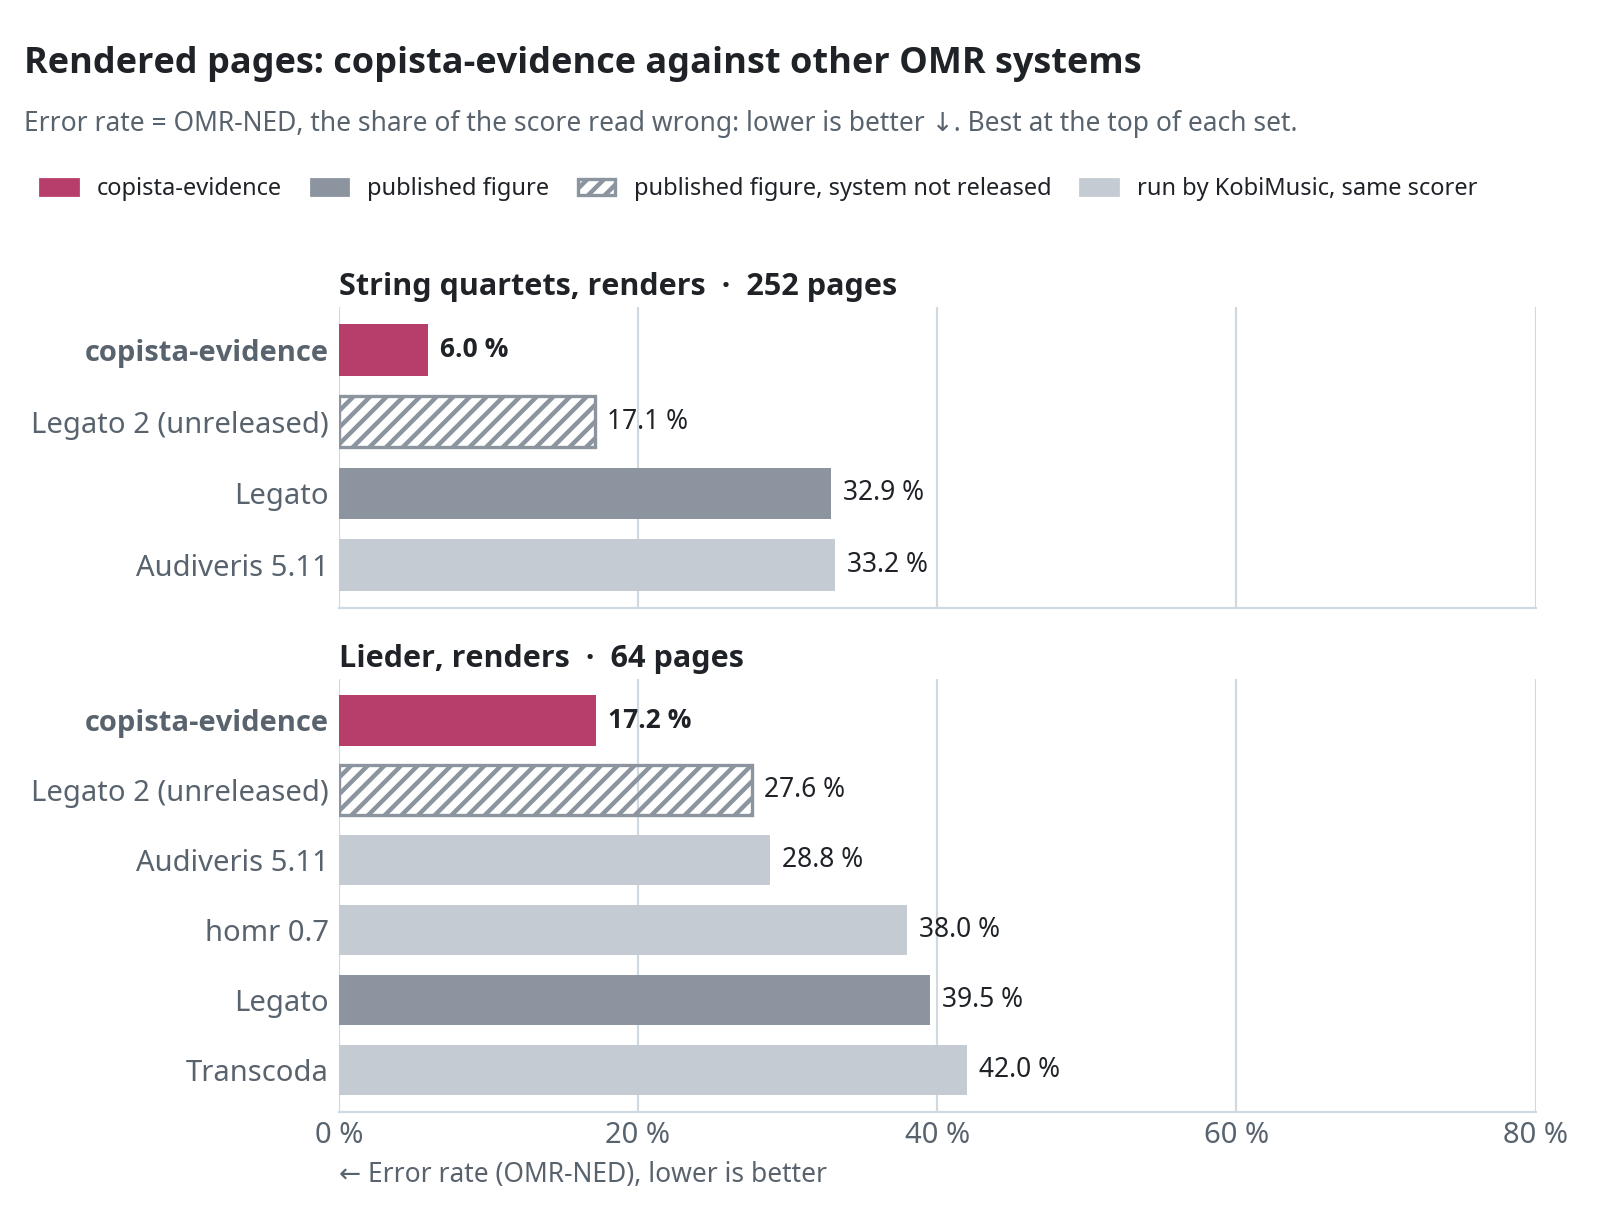
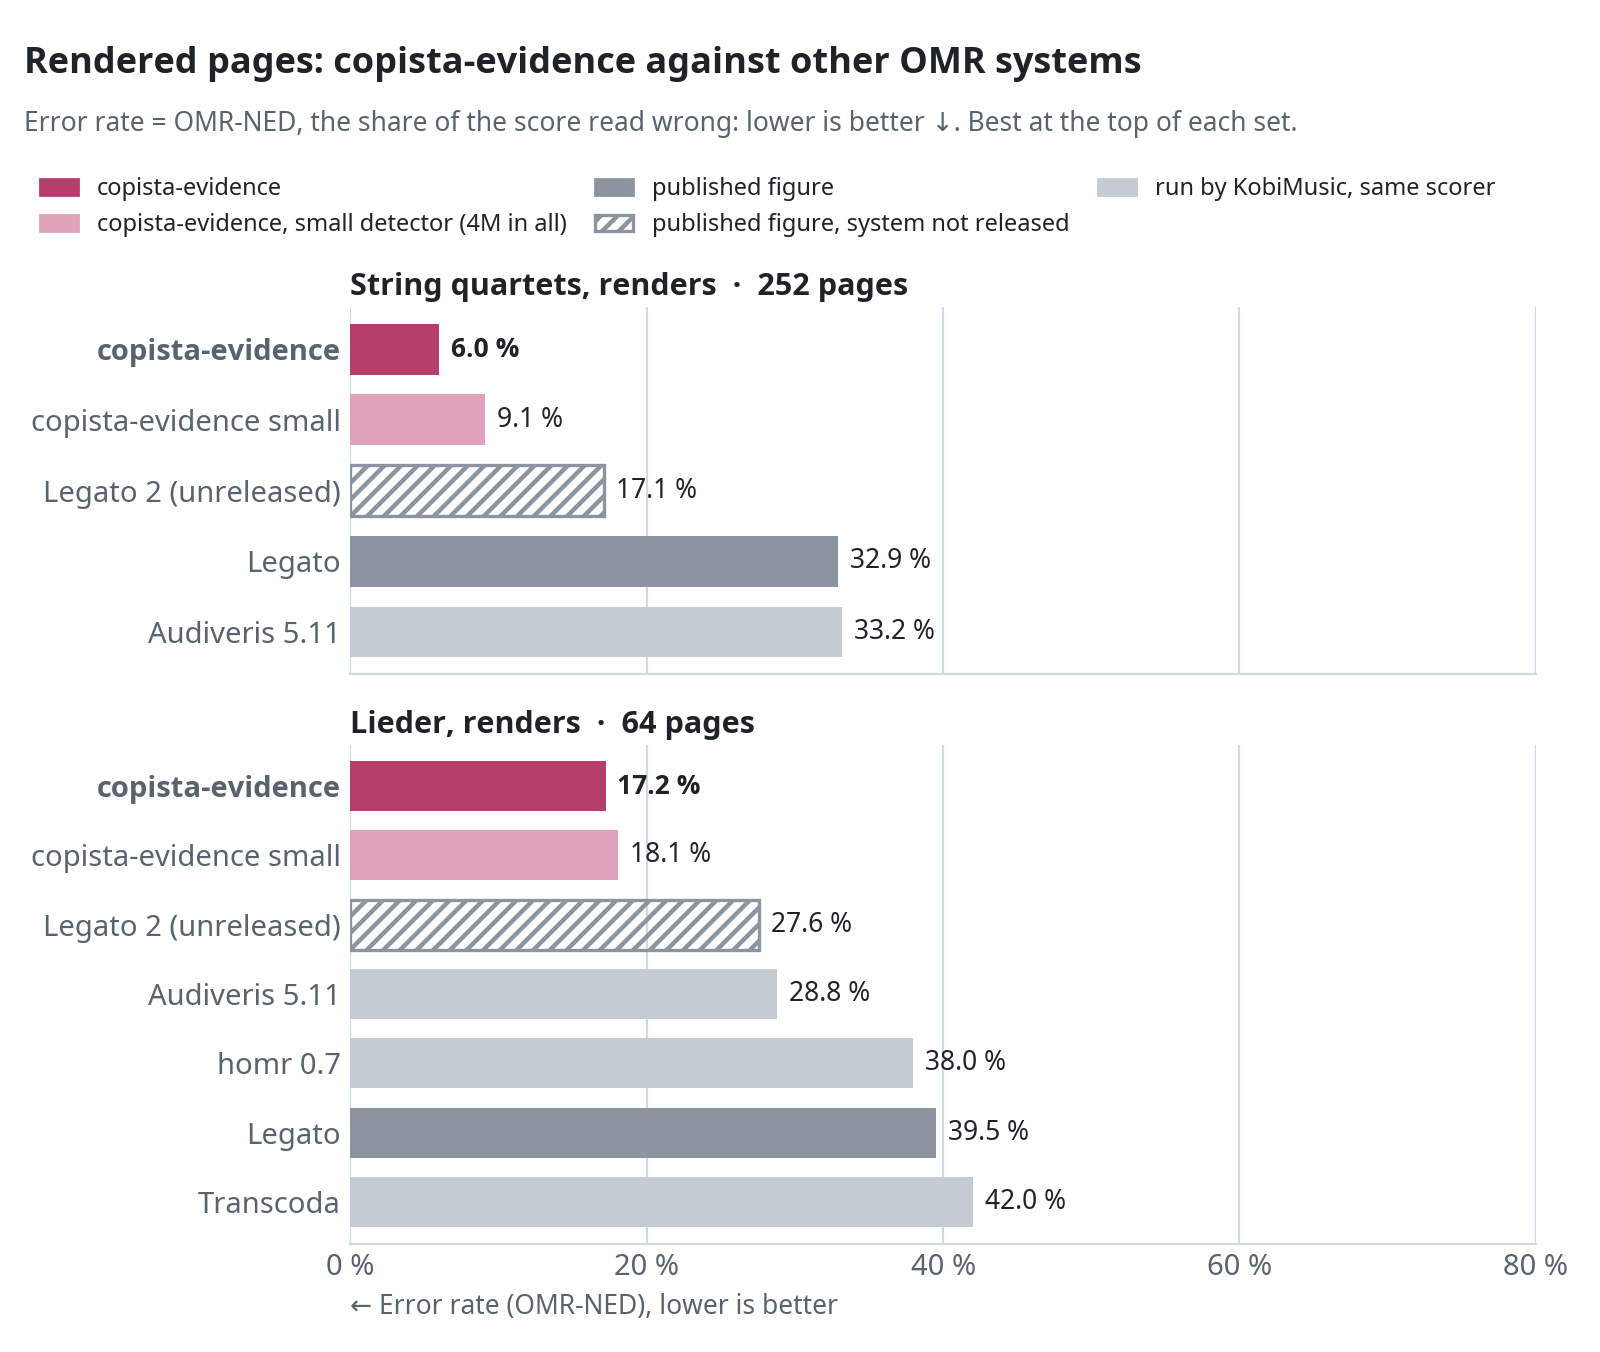
Small detector: --detector small (1.94M parameters) and its benchmark row
COPISTA_DETECTOR / --detector picks the symbol detector (v7, the default, or small); each detector's detections are
cached under their own tag. The README, the charts and docs/ARCHITECTURE.md add copista-evidence with the small
detector (about 4M parameters in all): 11.5 / 9.1 / 29.2 / 18.1 / 38.8 % error on the five sets.

Claude-Session: https://claude.ai/code/session_01X55R1JPz4nFe7sDjs2RiEf

diff --git a/src/copista_evidence/pipeline.py b/src/copista_evidence/pipeline.py
@@ -3,8 +3,9 @@
   python -m copista_evidence.pipeline page.png [more pages ...] --out out
   python -m copista_evidence.pipeline --pdf score.pdf --range 1-4 --out out
 
-A page's detections are taken from a cached file (``<stem>.dets_v7_<imgsz>.json`` beside the page) when one
-exists, else v7 runs here at the size the page's staff space asks for, and is cached the same way. Page texts
+A page's detections are taken from a cached file (``<stem>.dets_<tag>_<imgsz>.json`` beside the page, tag v7 for the
+default detector) when one exists, else the detector runs here at the size the page's staff space asks for, and is
+cached the same way. ``--detector small`` (or COPISTA_DETECTOR=small) reads with the 1.94M-parameter detector. Page texts
 (``<stem>.texts.json`` beside the page: OCR text boxes, see docs/ARCHITECTURE.md) are used when present: the
 title, the composer, words and multi-measure rest counts.
 """
@@ -17,12 +18,13 @@ from pathlib import Path
 
 from . import read, view, write
 
-from .paths import EVIDENCE, REPO as ROOT
+from .paths import DETECTORS, EVIDENCE, REPO as ROOT, detector
 
 
 def detections(png: Path, want_size: bool = False):
     """The page's v7 detections (``want_size``: and the input size they were read at)."""
-    cached = sorted(png.parent.glob(f"{png.stem}.dets_v7_*.json"))
+    tag = detector()[1]
+    cached = sorted(png.parent.glob(f"{png.stem}.dets_{tag}_*.json"))
     size = lambda path: int(path.stem.rsplit("_", 1)[1])                               # noqa: E731
     if len(cached) == 1:
         d = json.loads(cached[0].read_text())
@@ -61,7 +63,7 @@ def detections(png: Path, want_size: bool = False):
     imgsz = imgsz_for(sp, max(im.width, im.height))
     arr, s = det.prepare(im, imgsz)
     dets = det.run_array(arr, s)
-    png.with_name(f"{png.stem}.dets_v7_{imgsz}.json").write_text(json.dumps(dets))
+    png.with_name(f"{png.stem}.dets_{tag}_{imgsz}.json").write_text(json.dumps(dets))
     return (dets, imgsz) if want_size else dets
 
 
@@ -70,13 +72,13 @@ _DET: list = []
 
 def featcache(png: Path, det=None) -> Path:
     """v7 once more over the page at the size its detections were read at, keeping the sub-threshold candidates
-    and the image features (Detector.run_array with candidates): ``<stem>.feat_v7_<imgsz>.npz`` beside the page."""
+    and the image features (Detector.run_array with candidates): ``<stem>.feat_<tag>_<imgsz>.npz`` beside the page."""
     import numpy as np
     from PIL import Image
 
     from .detect import Detector
     _, imgsz = detections(png, want_size=True)
-    out = png.with_name(f"{png.stem}.feat_v7_{imgsz}.npz")
+    out = png.with_name(f"{png.stem}.feat_{detector()[1]}_{imgsz}.npz")
     if out.exists():
         return out
     if det is None:
@@ -136,7 +138,11 @@ def main(argv=None):
     ap.add_argument("--model", default=str(EVIDENCE))
     ap.add_argument("--out", default="out")
     ap.add_argument("--device", default="cpu")
+    ap.add_argument("--detector", choices=sorted(DETECTORS), help="the symbol detector (default v7, or COPISTA_DETECTOR)")
     a = ap.parse_args(argv)
+    if a.detector:
+        import os
+        os.environ["COPISTA_DETECTOR"] = a.detector
     pngs = [Path(p) for p in a.pages]
     if a.pdf:
         from .vision.page.scan import from_pdf

diff --git a/docs/images/make_charts.py b/docs/images/make_charts.py
@@ -3,7 +3,8 @@
     python docs/images/make_charts.py
 
 Every system against every other, per set, as the error rate OMR-NED (musicdiff, pooled over the set's pages; lower
-is better). copista-evidence's figures are this code's run. Legato and Legato 2 are published figures (Legato 2 is not released: its bars are hatched); homr 0.7,
+is better). copista-evidence's figures are this code's run, with the default detector (28.7M parameters) and with
+the small one (1.94M; about 4M parameters in all). Legato and Legato 2 are published figures (Legato 2 is not released: its bars are hatched); homr 0.7,
 Audiveris 5.11 and Transcoda were run by KobiMusic with the same scorer.
 """
 from pathlib import Path
@@ -26,20 +27,21 @@ SETS = [  # key, name, pages
 # system -> (kind, OMR-NED per set in SETS order; None = no figure)
 SYSTEMS = {
     "copista-evidence": ("evidence", [8.82, 6.00, 29.78, 17.22, 34.06]),
+    "copista-evidence small": ("small", [11.49, 9.11, 29.19, 18.08, 38.82]),
     "Legato 2 (unreleased)": ("unreleased", [31.6, 17.1, 43.6, 27.6, None]),
     "Legato": ("published", [58.2, 32.9, 44.9, 39.5, None]),
     "homr 0.7": ("run", [None, None, 49.1, 38.0, 48.3]),
     "Audiveris 5.11": ("run", [66.9, 33.2, 58.0, 28.8, 62.6]),
     "Transcoda": ("run", [None, None, 53.6, 42.0, 55.1]),
 }
-LEGEND = [("evidence", "copista-evidence"), ("published", "published figure"),
+LEGEND = [("evidence", "copista-evidence"), ("small", "copista-evidence, small detector (4M in all)"), ("published", "published figure"),
           ("unreleased", "published figure, system not released"), ("run", "run by KobiMusic, same scorer")]
 
 THEMES = {
-    "light": dict(text="#1f2328", muted="#59636e", grid="#d1d9e0", accent="#b73e6a", published="#8c959f",
-                  run="#c4cbd2"),
-    "dark": dict(text="#e6edf3", muted="#9198a1", grid="#3d444d", accent="#e2729b", published="#6e7681",
-                 run="#454c55"),
+    "light": dict(text="#1f2328", muted="#59636e", grid="#d1d9e0", accent="#b73e6a", small="#e0a3bb",
+                  published="#8c959f", run="#c4cbd2"),
+    "dark": dict(text="#e6edf3", muted="#9198a1", grid="#3d444d", accent="#e2729b", small="#8e4d66",
+                 published="#6e7681", run="#454c55"),
 }
 
 plt.rcParams.update({"font.family": ["Noto Sans", "DejaVu Sans"], "font.size": 10.5,  # DejaVu has the arrows
@@ -87,7 +89,7 @@ def panels(theme, keys, title, out):
     axes[-1].set_xlabel("← Error rate (OMR-NED), lower is better", color=t["muted"], fontsize=9.5, loc="left")
     handles = [plt.Rectangle((0, 0), 1, 1, **bar_style(t, kind)) for kind, _ in LEGEND]
     fig.legend(handles, [label for _, label in LEGEND], loc="upper left",
-               bbox_to_anchor=(0.012, 1 - 0.78 / fig.get_figheight()), ncol=4, frameon=False, fontsize=8.5,
+               bbox_to_anchor=(0.012, 1 - 0.78 / fig.get_figheight()), ncol=3, frameon=False, fontsize=8.5,
                labelcolor=t["text"], handlelength=1.6, columnspacing=1.2)
     top = 1 - 0.32 / fig.get_figheight()
     fig.text(0.015, top, title, ha="left", va="center", color=t["text"], fontweight="bold", fontsize=13)

diff --git a/src/copista_evidence/omrned.py b/src/copista_evidence/omrned.py
@@ -6,6 +6,7 @@ skipped (resumable); a page that fails gets no file (it then scores as read enti
 run.json. The MusicXML is scored against the set's ground truth with musicdiff (see README, Benchmark).
 
     python -m copista_evidence.omrned <set dir> --name evidence [--model models/evidence-2m.pt] [--jobs 6]
+    python -m copista_evidence.omrned <set dir> --name evidence-small --detector small
 """
 from __future__ import annotations
 
@@ -18,7 +19,7 @@ import traceback
 from multiprocessing import Pool
 from pathlib import Path
 
-from .paths import EVIDENCE
+from .paths import DETECTORS, EVIDENCE
 
 _M: dict = {}
 
@@ -53,7 +54,10 @@ def main():
     ap.add_argument("--limit", type=int)
     ap.add_argument("--no-texts", action="store_true")
     ap.add_argument("--texts", default="texts", help="the folder (in the set dir) of the pages' OCR text boxes")
+    ap.add_argument("--detector", choices=sorted(DETECTORS), help="the symbol detector (default v7, or COPISTA_DETECTOR)")
     a = ap.parse_args()
+    if a.detector:
+        os.environ["COPISTA_DETECTOR"] = a.detector      # before the pool: its workers inherit it
     d = Path(a.set_dir)
     ids = json.loads((d / "index.json").read_text())["ids"][:a.limit]
     out = d / "preds" / a.name

diff --git a/src/copista_evidence/paths.py b/src/copista_evidence/paths.py
@@ -1,8 +1,24 @@
 """Where the reader finds its files: the repository's models/ folder (run from the repository's root, installed
 editable)."""
+import os
 from pathlib import Path
 
 REPO = Path(__file__).resolve().parents[2]
 MODELS = REPO / "models"
-DETECTOR = MODELS / "small" / "v7_obj-recall-30m_best.pt"     # the v7 symbol detector (kobimusic/copista-evidence)
 EVIDENCE = MODELS / "evidence-2m.pt"                          # the evidence model (kobimusic/copista-evidence)
+# the v7 symbol detectors (kobimusic/copista-evidence): name -> (weights, tag of the page caches they write)
+DETECTORS = {
+    "v7": (MODELS / "small" / "v7_obj-recall-30m_best.pt", "v7"),          # 28.7M parameters, the default
+    "small": (MODELS / "small" / "v7_obj-recall_best.pt", "v7small"),      # 1.94M parameters
+}
+DETECTOR = DETECTORS["v7"][0]
+
+
+def detector() -> tuple[Path, str]:
+    """(weights, cache tag) of the detector in use: COPISTA_DETECTOR = v7 (default), small, or a weights file of the
+    same taxonomy (cached under its file name)."""
+    name = os.environ.get("COPISTA_DETECTOR", "v7")
+    if name in DETECTORS:
+        return DETECTORS[name]
+    p = Path(name)
+    return p, p.stem

diff --git a/src/copista_evidence/detect.py b/src/copista_evidence/detect.py
@@ -11,9 +11,8 @@ from pathlib import Path
 
 import numpy as np
 
-from .paths import DETECTOR
+from .paths import detector
 
-WEIGHTS = DETECTOR
 TARGET_SP = 10.6
 IMGSZ_MIN, IMGSZ_MAX = 640, 4096
 
@@ -25,8 +24,10 @@ def imgsz_for(staff_space: float, long_side: int, target: float = TARGET_SP) -> 
 
 
 class Detector:
-    def __init__(self, weights: str | Path = WEIGHTS, device: str | None = None):
+    def __init__(self, weights: str | Path | None = None, device: str | None = None):
+        """``weights``: a detector checkpoint; by default the one COPISTA_DETECTOR names (paths.detector)."""
         import torch
+        weights = weights or detector()[0]
 
         from .detector.small import models as M
         from .detector.small.data import ATTR_OFFSETS, ATTR_SIZES

diff --git a/README.md b/README.md
@@ -18,7 +18,7 @@ truth is known.
 
 <picture>
   <source media="(prefers-color-scheme: dark)" srcset="docs/images/compare-scans-dark.png">
-  <img alt="Error rate on scanned pages, lower is better; Legato 2 is not released. String quartets: copista-evidence 8.8 %, Legato 2 31.6 %, Legato 58.2 %, Audiveris 66.9 %. Lieder: copista-evidence 29.8 %, Legato 2 43.6 %, Legato 44.9 %, homr 49.1 %, Transcoda 53.6 %, Audiveris 58.0 %. Polish piano scores: copista-evidence 34.1 %, homr 48.3 %, Transcoda 55.1 %, Audiveris 62.6 %" src="docs/images/compare-scans-light.png" width="800">
+  <img alt="Error rate on scanned pages, lower is better; Legato 2 is not released. String quartets: copista-evidence 8.8 %, copista-evidence small 11.5 %, Legato 2 31.6 %, Legato 58.2 %, Audiveris 66.9 %. Lieder: copista-evidence small 29.2 %, copista-evidence 29.8 %, Legato 2 43.6 %, Legato 44.9 %, homr 49.1 %, Transcoda 53.6 %, Audiveris 58.0 %. Polish piano scores: copista-evidence 34.1 %, copista-evidence small 38.8 %, homr 48.3 %, Transcoda 55.1 %, Audiveris 62.6 %" src="docs/images/compare-scans-light.png" width="800">
 </picture>
 
 ## How it reads a page
@@ -55,13 +55,14 @@ truth is known.
 
 ## Weights
 
-The evidence model and the symbol detector are in the Hugging Face repo
+The evidence model and the symbol detectors are in the Hugging Face repo
 [`kobimusic/copista-evidence`](https://huggingface.co/kobimusic/copista-evidence) (private for now), with the model
 card. Put them where the pipeline looks:
 
 ```
-models/evidence-2m.pt                     # the evidence model
-models/small/v7_obj-recall-30m_best.pt    # the detector
+models/evidence-2m.pt                     # the evidence model (2.03M parameters)
+models/small/v7_obj-recall-30m_best.pt    # the detector (28.7M parameters)
+models/small/v7_obj-recall_best.pt        # the small detector (1.94M parameters), for --detector small
 ```
 
 With the Hugging Face CLI (`pip install huggingface_hub`, then `hf auth login` with an account that can see the repo):
@@ -69,6 +70,7 @@ With the Hugging Face CLI (`pip install huggingface_hub`, then `hf auth login` w
 ```
 hf download kobimusic/copista-evidence evidence-2m.pt --local-dir models
 hf download kobimusic/copista-evidence v7_obj-recall-30m_best.pt --local-dir models/small
+hf download kobimusic/copista-evidence v7_obj-recall_best.pt --local-dir models/small    # optional
 ```
 
 ## Install
@@ -86,6 +88,7 @@ Install it editable and run it from the repository's root: the code finds `model
 ```
 python -m copista_evidence.pipeline page.png --out out
 python -m copista_evidence.pipeline --pdf score.pdf --range 1-12 --out out
+python -m copista_evidence.pipeline page.png --out out --detector small     # about 4M parameters in all
 ```
 
 Each page gives `<page>.musicxml`, `<page>.reading.json` (every symbol's reading: the detector's choice, the final
@@ -93,16 +96,18 @@ choice and the evidence for it) and `<page>.html`, a viewer: the scan with every
 changed (hover: what the detector said, what the model reads, and the symbols it looked at most), and the MusicXML
 engraved by Verovio. `out/index.html` lists the pages read.
 
-The detections are cached beside each page (`<page>.dets_v7_<size>.json`). Page text (title, composer, part names,
-tempo and expression words, the counts over multi-measure rests) is read from `<page>.texts.json` beside the page when
-it is there: OCR text boxes with their role on the page, `[{"text": ..., "xyxy": [x0, y0, x1, y1], "role": ...}]`
-(docs/ARCHITECTURE.md lists the roles). Without it the music is read the same and the text is left out.
+The detections are cached beside each page (`<page>.dets_v7_<size>.json`, `<page>.dets_v7small_<size>.json` for the
+small detector). Page text (title, composer, part names, tempo and expression words, the counts over multi-measure
+rests) is read from `<page>.texts.json` beside the page when it is there: OCR text boxes with their role on the page,
+`[{"text": ..., "xyxy": [x0, y0, x1, y1], "role": ...}]` (docs/ARCHITECTURE.md lists the roles). Without it the music
+is read the same and the text is left out.
 
 | Environment variable | What it does |
 |---|---|
 | `COPISTA_ONSET` | `1` (default): notes at the onsets the model reads and rhythm decoded per voice; `0`: the read durations one after another |
 | `COPISTA_ONSET_P` | The onset confidence a note needs to be placed at its own onset (default 0.6) |
 | `COPISTA_RHYTHM` | `1` (default): durations and tuplets decoded jointly per voice; `0`: onsets only |
+| `COPISTA_DETECTOR` | `v7` (default), `small`, or a detector checkpoint of the same 270 classes; `--detector` sets it |
 
 ## Training
 
@@ -129,18 +134,21 @@ over a set and divided by the symbols of both scores. The result is the **error 
 wrong: a page read entirely wrong scores 100 %.
 
 > **Every figure in the table and the charts is an error rate: lower is better ↓.** copista-evidence is lowest on
-> every set.
+> every set, and with the small detector (about 4M parameters in all) it is still ahead of every other system.
 
 | System | Figures | Quartets, scans ↓ | Quartets, renders ↓ | Lieder, scans ↓ | Lieder, renders ↓ | Polish piano, scans ↓ |
 |---|---|---|---|---|---|---|
-| **copista-evidence** | KobiMusic | **8.8 %** | **6.0 %** | **29.8 %** | **17.2 %** | **34.1 %** |
+| **copista-evidence** | KobiMusic | **8.8 %** | **6.0 %** | 29.8 % | **17.2 %** | **34.1 %** |
+| **copista-evidence, small detector** | KobiMusic | 11.5 % | 9.1 % | **29.2 %** | 18.1 % | 38.8 % |
 | Legato 2 (unreleased) | published | 31.6 % | 17.1 % | 43.6 % | 27.6 % | n/a |
 | Legato | published | 58.2 % | 32.9 % | 44.9 % | 39.5 % | n/a ¹ |
 | homr 0.7 | run by KobiMusic | piano only | piano only | 49.1 % | 38.0 % | 48.3 % |
 | Audiveris 5.11 | run by KobiMusic | 66.9 % ² | 33.2 % | 58.0 % | 28.8 % | 62.6 % |
 | Transcoda | run by KobiMusic | piano only | piano only | 53.6 % ³ | 42.0 % ³ | 55.1 % ³ |
 
-Pages per set: quartets 252, Lieder 64, Polish 112. "Published" figures are the ones in the Legato papers
+Pages per set: quartets 252, Lieder 64, Polish 112. copista-evidence reads with the 28.7M-parameter detector and
+the 2.03M-parameter evidence model (30.7M in all); with the small detector, 1.94M + 2.03M (4.0M in all). The evidence
+model is the same in both; it was trained on the large detector's readings. "Published" figures are the ones in the Legato papers
 ([Legato](https://arxiv.org/abs/2506.19065), [Legato 2](https://arxiv.org/abs/2607.05769)). **Legato 2 is not
 released**: its figures are from the paper and nobody can run it (hatched bars in the charts). The systems marked "run
 by KobiMusic" were run on the same pages with the same scorer. A page a system gives no output for counts as read
@@ -155,26 +163,27 @@ entirely wrong, as on the IMSLP piano leaderboard.
 
 <picture>
   <source media="(prefers-color-scheme: dark)" srcset="docs/images/compare-renders-dark.png">
-  <img alt="Error rate on rendered pages, lower is better; Legato 2 is not released. String quartets: copista-evidence 6.0 %, Legato 2 17.1 %, Legato 32.9 %, Audiveris 33.2 %. Lieder: copista-evidence 17.2 %, Legato 2 27.6 %, Audiveris 28.8 %, homr 38.0 %, Legato 39.5 %, Transcoda 42.0 %" src="docs/images/compare-renders-light.png" width="800">
+  <img alt="Error rate on rendered pages, lower is better; Legato 2 is not released. String quartets: copista-evidence 6.0 %, copista-evidence small 9.1 %, Legato 2 17.1 %, Legato 32.9 %, Audiveris 33.2 %. Lieder: copista-evidence 17.2 %, copista-evidence small 18.1 %, Legato 2 27.6 %, Audiveris 28.8 %, homr 38.0 %, Legato 39.5 %, Transcoda 42.0 %" src="docs/images/compare-renders-light.png" width="800">
 </picture>
 
 **Lieder scans without the 9 broken pages.** On 9 of the 64 Lieder scans the ground truth lacks the vocal staff the
-page shows, so every system loses most of those pages. Over the other 55 pages: copista-evidence 19.4 %, homr
-42.3 %, Transcoda 48.4 %, Audiveris 51.8 % (lower is better).
+page shows, so every system loses most of those pages. Over the other 55 pages: copista-evidence 19.4 %
+(small detector 19.1 %), homr 42.3 %, Transcoda 48.4 %, Audiveris 51.8 % (lower is better).
 
 **copista-evidence alone.** Over all 744 pages of the five sets copista-evidence reads 87.5 % of the score right
-(error rate 12.5 %). A known weakness on the quartets: triplets a page marks only once, which it can read as plain
-notes.
+(error rate 12.5 %); with the small detector, 84.6 % (15.4 %). A known weakness on the quartets: triplets a page
+marks only once, which it can read as plain notes.
 
-The figures are this code's run with `evidence-2m.pt` and the default settings, with page text from KobiMusic's OCR
-(Tesseract) in `<page>.texts.json`; `python -m copista_evidence.omrned <set dir>` reads a set.
+The figures are this code's run with `evidence-2m.pt` and the default settings (`--detector small` for the small
+detector's row), with page text from KobiMusic's OCR (Tesseract) in `<page>.texts.json`;
+`python -m copista_evidence.omrned <set dir>` reads a set.
 `docs/images/make_charts.py` draws the charts.
 
 ## Links
 
 | | |
 |---|---|
-| 🤗 [kobimusic/copista-evidence](https://huggingface.co/kobimusic/copista-evidence) | The evidence model's and the detector's weights, and the model card |
+| 🤗 [kobimusic/copista-evidence](https://huggingface.co/kobimusic/copista-evidence) | The evidence model's and the detectors' weights, and the model card |
 | 🤗 [kobimusic on Hugging Face](https://huggingface.co/kobimusic) | KobiMusic's models |
 | [kobi.music](https://kobi.music) | KobiMusic, with the hosted reader |
 | [efficient-musicdiff](https://github.com/guang-yng/efficient-musicdiff) | The OMR-NED scorer |

diff --git a/docs/ARCHITECTURE.md b/docs/ARCHITECTURE.md
@@ -21,6 +21,10 @@ finds none, from a first pass's measure boxes, which are four staff spaces tall)
 position, stem direction, dots, grace, voice slot. Detections at confidence 0.05 and up are kept and cached beside
 the page.
 
+`--detector small` reads with the small v7 detector instead (architecture `obj-recall`, 1.94M parameters, the same
+classes and attributes): the whole reader is then about 4M parameters. The evidence model is the same one; it was
+trained on the large detector's readings, not the small one's.
+
 ## 2. Front end (`front.py`, `links.py`)
 
 Only geometry, and only what the writer cannot do without:

diff --git a/models/README.md b/models/README.md
@@ -9,6 +9,7 @@ The weights are not in the repository. Put them here:
 | File | Where it comes from |
 |---|---|
 | `evidence-2m.pt` | The evidence model (2.03M parameters) |
-| `small/v7_obj-recall-30m_best.pt` | The v7 symbol detector (28.7M parameters) |
+| `small/v7_obj-recall-30m_best.pt` | The v7 symbol detector (28.7M parameters), the default |
+| `small/v7_obj-recall_best.pt` | The small v7 detector (1.94M parameters, the same 270 classes), for `--detector small` |
 
 Both are in the Hugging Face repo `kobimusic/copista-evidence`.
